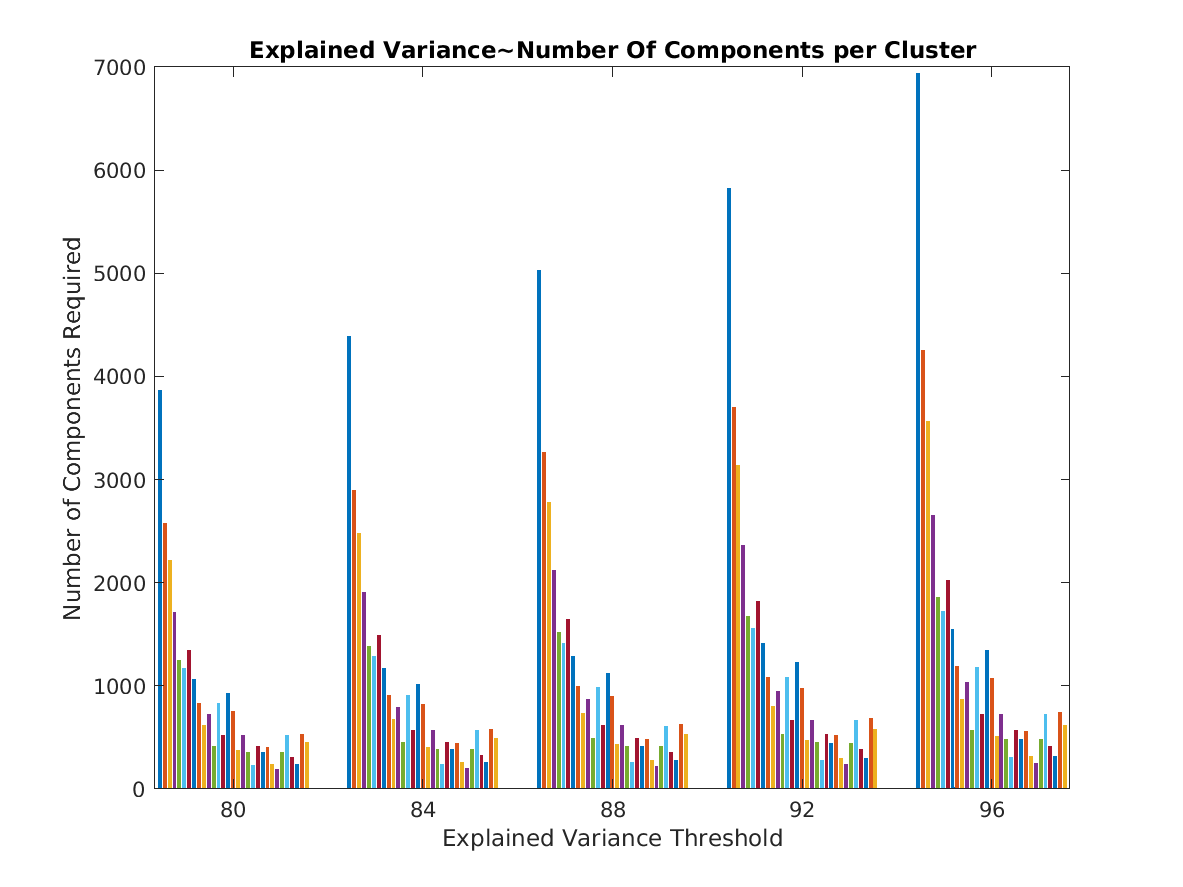
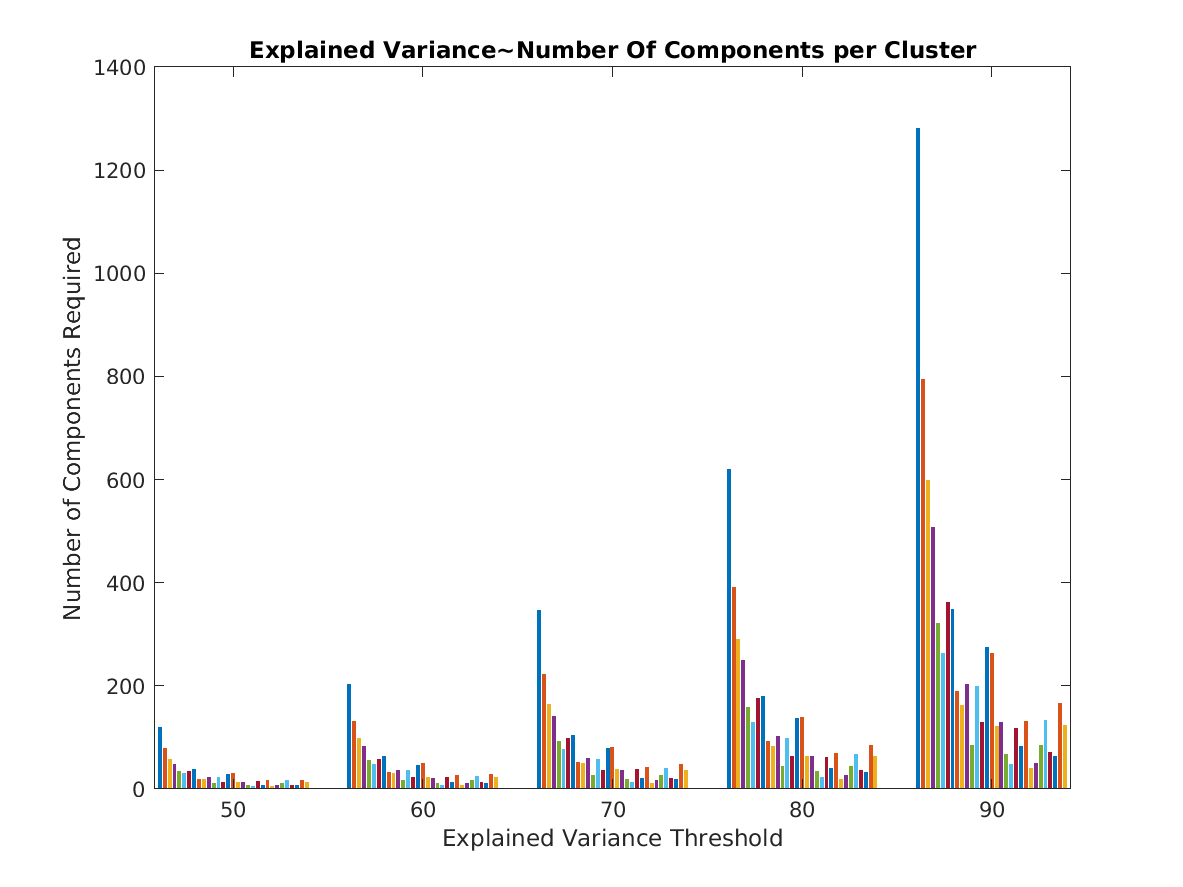
Fixes to plot
Former-commit-id: cfca09ab424babbc078c2906855d46f05c0437dc

diff --git a/matlab/demoBrainAsymmetryGenome.m b/matlab/demoBrainAsymmetryGenome.m
@@ -9,6 +9,14 @@ CHR = 17;
 GENE_SET_METHOD = 'perSNP';
 GWAS_ID = ['chr' num2str(CHR) '_' GENE_SET_METHOD];
 THREADS= 32;
+MAX_NUM_FEATS = 500;
+%%
+DATA_DIR = '../SAMPLE_DATA/';
+covGenoPath = [DATA_DIR, 'IMAGEN/BRAIN/UKBIOBANK/COVARIATES/COVDATAINLIERS.mat'];
+RESULTS_DIR = '../results/genomeDemo/';
+ 
+if ~isfolder(RESULTS_DIR), mkdir(RESULTS_DIR); end
+
 try
     parpool('local',THREADS);
 catch
@@ -27,10 +35,9 @@ catch
     save(['../results/genomics/data_chr' num2str(CHR) '.mat'], 'af', 'ld', 'geno', 'snps', 'samples', '-v7.3')
 end
 %%
-DATA_DIR = '../SAMPLE_DATA/';
-covGenoPath = [DATA_DIR, 'IMAGEN/BRAIN/UKBIOBANK/COVARIATES/COVDATAINLIERS.mat'];
+pheno = load('../results/hierarchicalClusteringDemo/asymmetry_reduction10/ccPriorSegmentation/levels4_mine/phenotype_varThres80.mat');
 covariates = load(covGenoPath).COV;
-%%
+%% Align covariants with genotype
 covAssignmentMatrix = (str2double(samples.IID) == str2double(covariates.IID)');
 [covGenoIndex, covIndex] = find(covAssignmentMatrix);
 clear covAssignmentMatrix
@@ -38,65 +45,60 @@ covData = covariates.DATA(covIndex, :);
 geno =geno(covGenoIndex, :);
 samples = samples(covGenoIndex, :);
 
-%%
-RESULTS_DIR = '../results/genomeDemo/';
- 
-if ~isfolder(RESULTS_DIR), mkdir(RESULTS_DIR); end
-%%
-genoId = str2double(samples.('IID'));
 
 %%
-pheno = load('../results/hierarchicalClusteringDemo/asymmetry_reduction10/ccPriorSegmentation/levels4_mine/phenotype_varThres80.mat');
-%%
+genoId = str2double(samples.IID);
 phenoId = str2double(pheno.preprocPhenoIID);
 
 
-%% Allign phenotype with genotype
+%% Align phenotype with genotype
 assignmentMatrix = (phenoId == genoId');
 [phenoIndex, genoIndex] = find(assignmentMatrix);
 geno = geno(genoIndex, :);
+covData = covData(genoIndex,:);
+samples = samples(genoIndex, :);
 assert(all(phenoIndex'==1:length(phenoIndex)));
 clear assignmentMatrix
 
 %% Represent SNPs that are not really SNPs (one replaced by many, or many replaced by one)
-[sortedAf, sortedAfArg] = sort(af);
-sortedSnps = snps(sortedAfArg, :);
-fig = figure("Name", "Occurences of InDel including Alleles");
-hold on
-yyaxis left
-lHandle = plot(sortedAf);
-set(lHandle, {'DisplayName'}, {'Ordered Frequency'});
-
-oneToMany = strlength(sortedSnps.(4))>1 & strlength(sortedSnps.(5)) == 1;
-manyToMany = strlength(sortedSnps.(4))>1 & strlength(sortedSnps.(5)) > 1;
-manyToOne = strlength(sortedSnps.(4))==1 & strlength(sortedSnps.(5)) > 1;
-edges = linspace(0, size(manyToOne ,1), 50);
-oTMH = histcounts(find(oneToMany),edges);
-mTOH = histcounts(find(manyToOne),edges);
-
-
-sHandle = scatter(find(manyToMany), 0.95 * ones(1, sum(manyToMany))', 'x');
-sHandle.DisplayName = ['N->N: ', num2str(sum(manyToMany))];
-
-yyaxis right
-bHandle = bar( 0.5*(edges(2:end) + edges(1:end-1)), [oTMH', mTOH'], 1);
-bHandle(1).FaceColor = 'blue';
-bHandle(1).DisplayName = ['1->N:  '  num2str(sum(oneToMany))];
-bHandle(1).EdgeColor = 'k';
-bHandle(2).FaceColor = 'red';
-bHandle(2).DisplayName = ['N->1 :', num2str(sum(manyToOne))];
-bHandle(2).EdgeColor = 'k';
-xlabel("Sorted Snps")
-ax = gca;
-ax.YAxis(2).Color = 'k';
-
-legend;
-hold off
-savefig(fig, [RESULTS_DIR 'multi_characters_alleles.fig']);
-saveas(fig, [RESULTS_DIR 'multi_characters_alleles.png']);
-
-clear sortedSnps
-%% Remove indels for now.
+% [sortedAf, sortedAfArg] = sort(af);
+% sortedSnps = snps(sortedAfArg, :);
+% fig = figure("Name", "Occurences of InDel including Alleles");
+% hold on
+% yyaxis left
+% lHandle = plot(sortedAf);
+% set(lHandle, {'DisplayName'}, {'Ordered Frequency'});
+% 
+% oneToMany = strlength(sortedSnps.(4))>1 & strlength(sortedSnps.(5)) == 1;
+% manyToMany = strlength(sortedSnps.(4))>1 & strlength(sortedSnps.(5)) > 1;
+% manyToOne = strlength(sortedSnps.(4))==1 & strlength(sortedSnps.(5)) > 1;
+% edges = linspace(0, size(manyToOne ,1), 50);
+% oTMH = histcounts(find(oneToMany),edges);
+% mTOH = histcounts(find(manyToOne),edges);
+% 
+% 
+% sHandle = scatter(find(manyToMany), 0.95 * ones(1, sum(manyToMany))', 'x');
+% sHandle.DisplayName = ['N->N: ', num2str(sum(manyToMany))];
+% 
+% yyaxis right
+% bHandle = bar( 0.5*(edges(2:end) + edges(1:end-1)), [oTMH', mTOH'], 1);
+% bHandle(1).FaceColor = 'blue';
+% bHandle(1).DisplayName = ['1->N:  '  num2str(sum(oneToMany))];
+% bHandle(1).EdgeColor = 'k';
+% bHandle(2).FaceColor = 'red';
+% bHandle(2).DisplayName = ['N->1 :', num2str(sum(manyToOne))];
+% bHandle(2).EdgeColor = 'k';
+% xlabel("Sorted Snps")
+% ax = gca;
+% ax.YAxis(2).Color = 'k';
+% 
+% legend;
+% hold off
+% savefig(fig, [RESULTS_DIR 'multi_characters_alleles.fig']);
+% saveas(fig, [RESULTS_DIR 'multi_characters_alleles.png']);
+% 
+% clear sortedSnps
+%% Remove indels.
 indelFilter = strlength(snps.(4))==1 & strlength(snps.(5))==1;
 genoPruned = geno(:, indelFilter);
 snpsPruned = snps(indelFilter, :);
@@ -128,25 +130,28 @@ clear genoInt
 %%
 disp("Computing CCA without phenotypic partitioning..")
 % Without Taking Partitioning Into Consideration
-[noPartitionStats, noPartitionIntStats] = runCCA(pheno.clusterPCAPhenoFeatures{1}, genoControlledInt, intervals, gId);
+noPartPheno = pheno.clusterPCAPhenoFeatures{1};
+if MAX_NUM_FEATS~=0
+    noPartPheno = noPartPheno(:,1:MAX_NUM_FEATS);
+end
+[noPartitionStats, noPartitionIntStats] = runCCA(noPartPheno, genoControlledInt, intervals, gId);
 noPartitionThres = 0.05/ size(intervals, 1);
-%%
-plotSimpleGWAS(intervals, noPartitionIntStats, CHR, noPartitionThres,  [RESULTS_DIR GWAS_ID '_noPartition']);
+plotSimpleGWAS(intervals, noPartitionIntStats, CHR, noPartitionThres,  [RESULTS_DIR GWAS_ID '_noPartition_feats' num2str(MAX_NUM_FEATS)]);
 
 %%
 
 % With Global-To-Local Partitioning Into Consideration
 disp("Computing CCA with phenotypic partitioning..")
-[gTLPartStats, gTLPartIntStats] = runCCAOnEachPartition(pheno, genoControlledInt, intervals, gId);
+[gTLPartStats, gTLPartIntStats] = runCCAOnEachPartition(pheno, genoControlledInt, intervals, gId, MAX_NUM_FEATS);
 gTLPartsPThres = 0.05/(size(intervals, 1) * length(pheno.clusterPCAPhenoFeatures));
 %%
-prepareSignificantTablesOnEachPartition(snpsPruned, gTLPartStats, gTLPartIntStats , intervals, gTLPartsPThres, [RESULTS_DIR,GWAS_ID '_PartitionedGTLWithBC']);
-prepareSignificantTablesOnEachPartition(snpsPruned, gTLPartStats, gTLPartIntStats , intervals, noPartitionThres, [RESULTS_DIR,GWAS_ID '_PartitionedGTLWoBC']);
+prepareSignificantTablesOnEachPartition(snpsPruned, gTLPartStats, gTLPartIntStats , intervals, gTLPartsPThres, [RESULTS_DIR,GWAS_ID '_PartitionedGTLWithBC_feats' num2str(MAX_NUM_FEATS)]);
+prepareSignificantTablesOnEachPartition(snpsPruned, gTLPartStats, gTLPartIntStats , intervals, noPartitionThres, [RESULTS_DIR,GWAS_ID '_PartitionedGTLWoBC_feats' num2str(MAX_NUM_FEATS)]);
 
 %%
-plotPartitionsGWAS(intervals, gTLPartIntStats, CHR, gTLPartsPThres, [RESULTS_DIR GWAS_ID '_PartitionedGTL']);
+plotPartitionsGWAS(intervals, gTLPartIntStats, CHR, gTLPartsPThres, [RESULTS_DIR GWAS_ID '_PartitionedGTL_feats' num2str(MAX_NUM_FEATS)]);
 %%
-save([RESULTS_DIR, GWAS_ID '_ccaResults.mat'], 'intervals', 'noPartitionStats', 'noPartitionIntStats', 'gTLIntStats', 'gTLPartStats', 'gTLPartIntStats', '-v7.3');
+save([RESULTS_DIR, GWAS_ID '_ccaResults_feats' num2str(MAX_NUM_FEATS) '.mat'], 'intervals', 'noPartitionStats', 'noPartitionIntStats', 'gTLIntStats', 'gTLPartStats', 'gTLPartIntStats', '-v7.3');
 
 %%
 
@@ -239,7 +244,14 @@ if ~strcmp(savePath, "")
 end
 end
 
-function [stats, intStats, intervals] = runCCAOnEachPartition(pheno, geno, intervals, intIdVec)
+function [stats, intStats, intervals] = runCCAOnEachPartition(pheno, geno, intervals, intIdVec, maxNumPhenoFeats)
+    arguments
+    pheno
+    geno
+    intervals
+    intIdVec
+    maxNumPhenoFeats =0;
+    end
 
     pnum = length(pheno.clusterPCAPhenoFeatures);
     gnum = intervals(end,2);
@@ -249,6 +261,9 @@ function [stats, intStats, intervals] = runCCAOnEachPartition(pheno, geno, inter
     intChisSq = zeros(pnum, inum);
     for k=pnum:-1:1
         phenoPart = pheno.clusterPCAPhenoFeatures{k};
+        if maxNumPhenoFeats ~= 0
+            phenoPart = phenoPart(:,1:min(size(phenoPart,2),maxNumPhenoFeats));
+        end
         disp(['Partition ', num2str(k), ', number of components: ', num2str(size(phenoPart,2))]);
          [s, i] = runCCA(phenoPart, geno, intervals, intIdVec);
          chisq(k, :) = s.chiSqSignificance;

diff --git a/matlab/demoBrainAsymmetryHierarchicalClustering.m b/matlab/demoBrainAsymmetryHierarchicalClustering.m
@@ -226,12 +226,12 @@ clear A similarityMat
 % Get the partition of A that corresponds to the specific cluster with C
 % points and then transform it into a N*3 x C array
 partitions_num = 2^(NUM_LEVELS + 1) - 1;
-explainedThresholds = 80:4:96;
+explainedThresholds = 50:10:90;
 clusterExpComponentsNum = zeros(partitions_num, length(explainedThresholds));
 means = zeros(partitions_num, 3, nSubj);
 templateCenters = zeros(partitions_num,3);
 
-resT = reshape(resT, DIM, nVertices, nSubj);
+reshapedResT = reshape(resT', DIM, nVertices, nSubj);
 
 parfor c=1:partitions_num
     try
@@ -240,11 +240,11 @@ parfor c=1:partitions_num
         i = c - (2^(k-1) - 1); % cluster index
         selectionMask = clusterVec==i;
         if ~any(selectionMask), continue; end
-        ftResT = reshape(resT(:, selectionMask, :), DIM * sum(selectionMask), nSubj)';
+        ftResT = reshape(reshapedResT(:, selectionMask, :), DIM * sum(selectionMask), nSubj)';
         [~, pcaScores{c}, ~, ~, explained{c}] = pca(ftResT, 'Centered', true);
         explainedAccum = cumsum(explained{c});
         clusterExpComponentsNum(c,:) = sum(explainedAccum < explainedThresholds, 1);
-        means(c, :, :) = mean(resT(:, selectionMask, :), 2);
+        means(c, :, :) = mean(reshapedResT(:, selectionMask, :), 2);
         templateCenters(c, :) = mean(preprocTemplate.Vertices(selectionMask, :), 1);
     catch ME
         disp(c)
